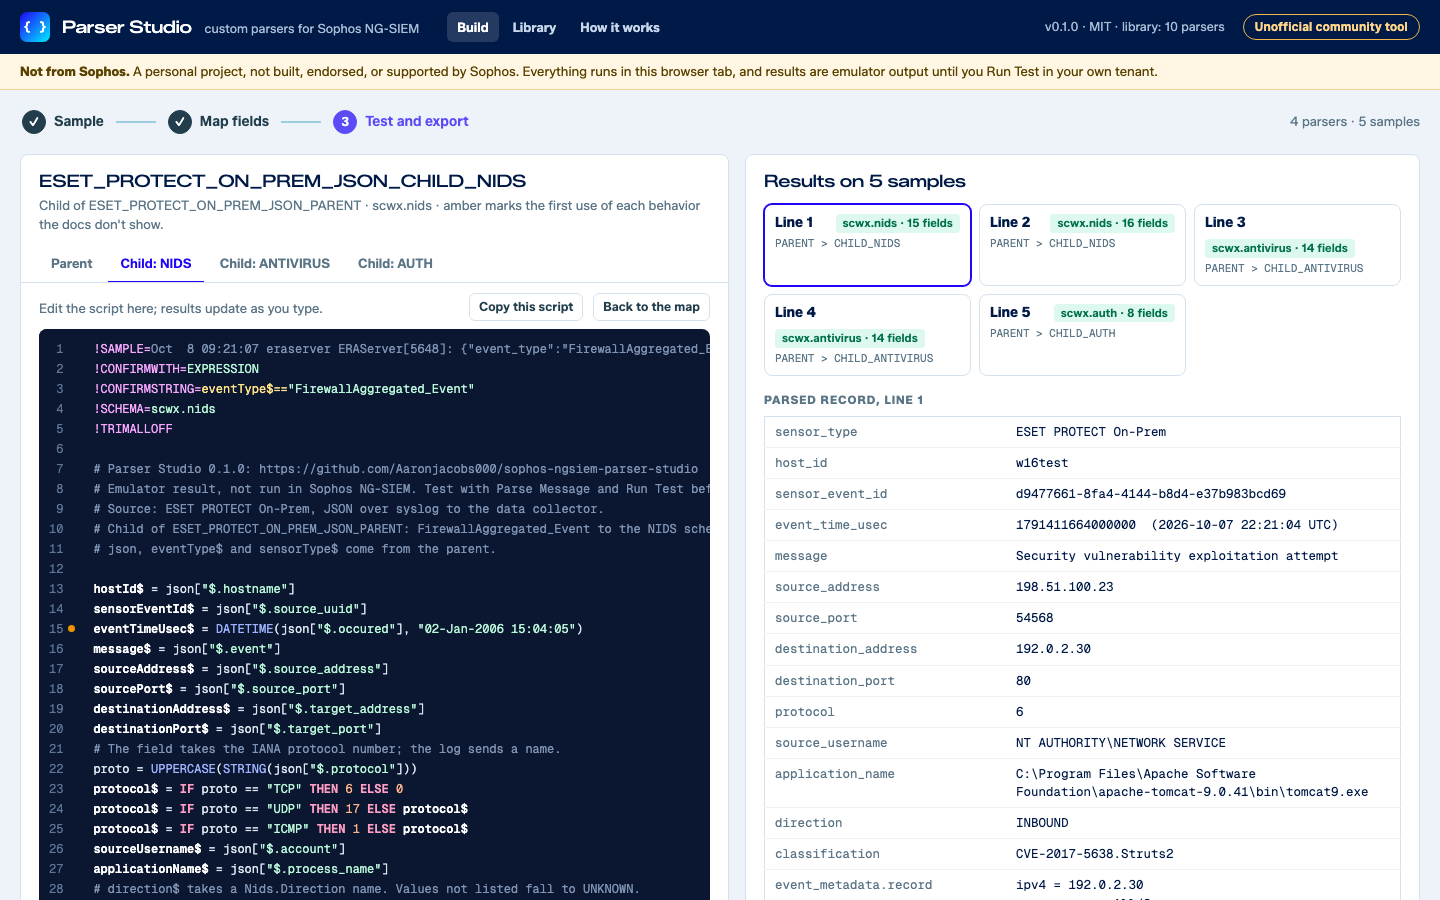
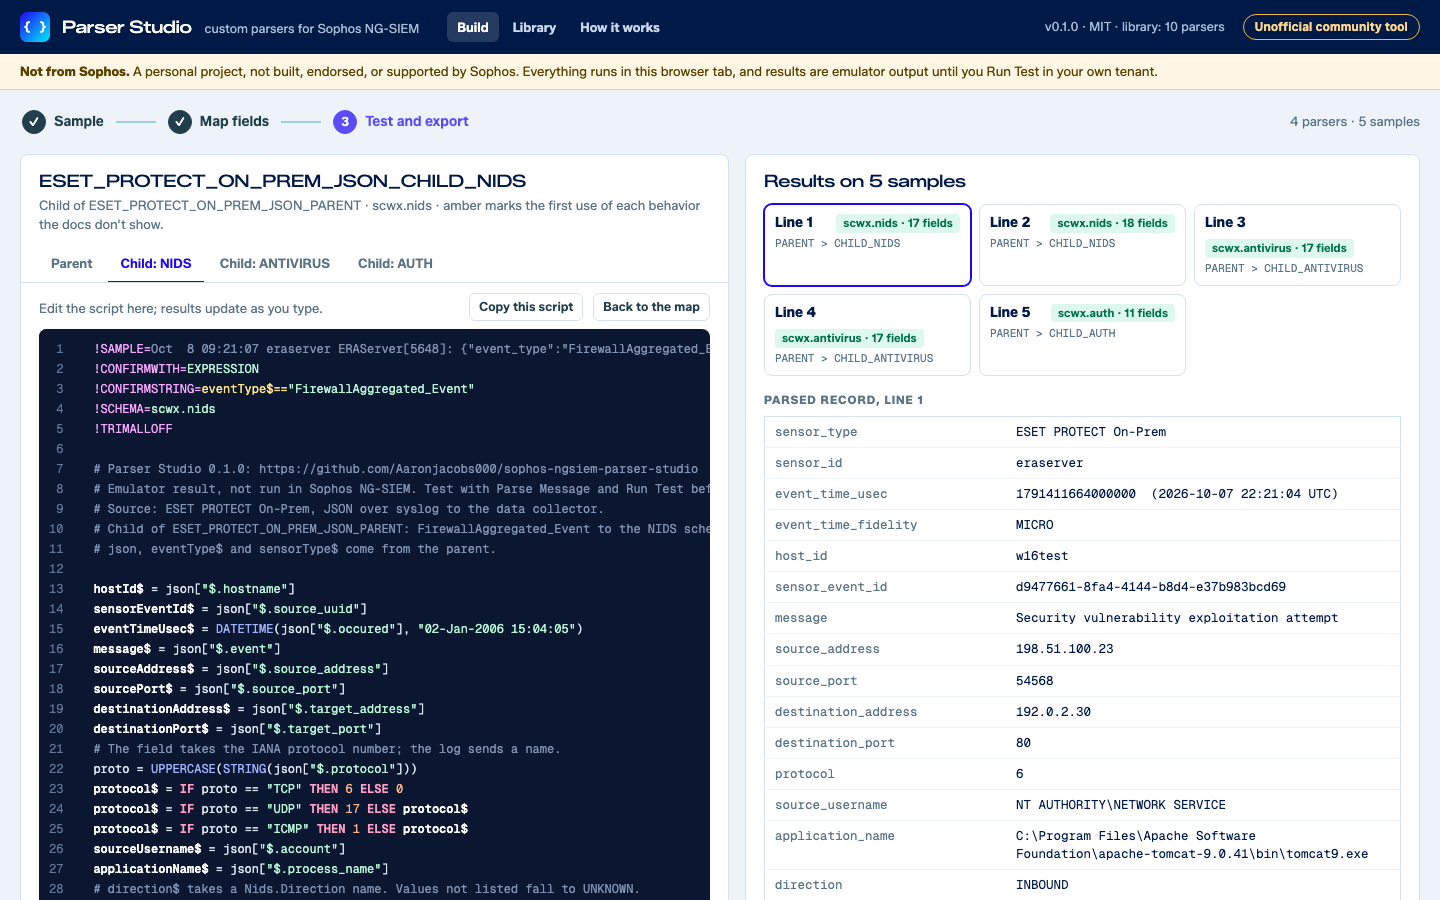
docs: tenant-tested seed entries, share dialog labels, new screenshot

diff --git a/studio/app/views/share.js b/studio/app/views/share.js
@@ -6,7 +6,7 @@ import { h, clear, select, copyText, download, toast, ext } from '../dom.js';
 import { state } from '../store.js';
 import { call } from '../emulator-client.js';
 import { libraryForLint, enginePayload } from './test.js';
-import { problemRow, SHIP_LABELS } from './common.js';
+import { problemRow, SHIP_LABELS, FORMAT_LABELS } from './common.js';
 import { entryId, entryFiles, packBundle, expectedFrom, FORMATS, LICENSES } from '../../core/library.js';
 import { makeZip } from '../../core/zip.js';
 import { TOOL_VERSION, BRANCH } from '../../core/version.js';
@@ -57,7 +57,7 @@ export function openShare() {
   const product = h('input', { class: 'input', value: m.product });
   const versions = h('input', { class: 'input', value: m.versions.join(', '), placeholder: 'for example 11.1, 12' });
   const author = h('input', { class: 'input', value: m.author, placeholder: 'your-github-handle', autocomplete: 'username' });
-  const format = select(FORMATS.map((f) => ({ value: f })), m.format, () => {}, { class: 'input' });
+  const format = select(FORMATS.map((f) => ({ value: f, label: FORMAT_LABELS[f] || f })), m.format, () => {}, { class: 'input' });
   const ship = select(Object.entries(SHIP_LABELS).map(([value, label]) => ({ value, label })), m.ship_method, () => {}, { class: 'input' });
   const license = select(LICENSES.map((l) => ({ value: l })), m.license, () => {}, { class: 'input' });
   const source = select([{ value: 'synthetic', label: 'Synthetic (made up)' }, { value: 'vendor-docs', label: 'From public vendor docs' }], m.sample_source, () => {}, { class: 'input' });
